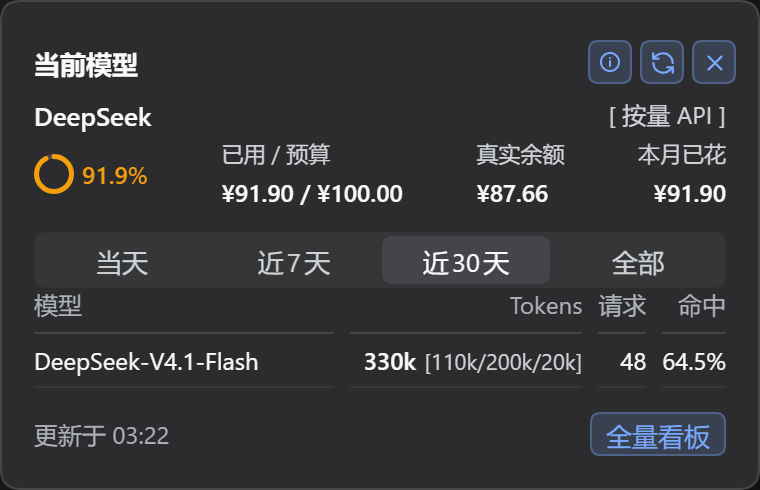
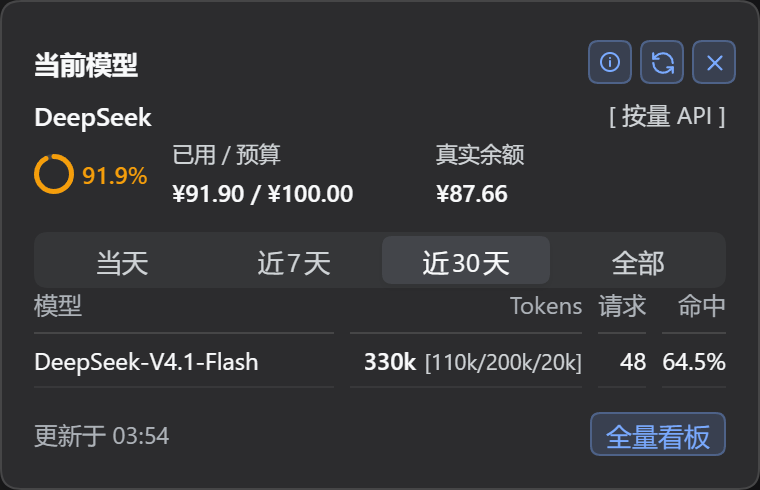
feat: P2 按量摘要移除本月已花（2.0.0）
- P2 摘要改四列网格，仅渲染环 / 已用·预算 / 真实余额，尾部空槽保留\n- 删除 token-dash-summary-month；VM 与 monthCost 不动，P3/预算不受影响\n- ui-design v3.5、design v3.5；page-p2 预览与 README 截图同步\n- e2e 改为三组摘要并断言余额不贴右；79 单测 / e2e 全绿\n- 版本 2.0.0；CHANGELOG 以 1.3.0 为基线；不 tag、不 npm publish

diff --git a/client.js b/client.js
@@ -393,7 +393,7 @@ window.__ModuleLoader__.load({
       card: { background: T.section, borderRadius: 10, padding: 10, marginTop: 10, display: 'grid', gap: 8 },
       link: { color: T.text, textDecoration: 'underline', cursor: 'pointer' },
       status: { minHeight: 15, fontSize: 10.5, color: T.muted, textAlign: 'right' },
-      summaryRow: { display: 'flex', flexWrap: 'nowrap', alignItems: 'center', justifyContent: 'space-between', gap: 12, minHeight: 24, fontSize: 12 },
+      summaryRow: { display: 'grid', gridTemplateColumns: 'auto minmax(120px,1.2fr) minmax(80px,1fr) minmax(0,1fr)', alignItems: 'center', columnGap: 12, minHeight: 24, fontSize: 12 },
       summaryCell: { display: 'flex', flexDirection: 'column', gap: 4, minWidth: 0, whiteSpace: 'nowrap' },
       summaryLabel: { color: T.muted, fontSize: 11 },
       summaryValue: { fontSize: 12, fontWeight: 600, fontVariantNumeric: 'tabular-nums' },
@@ -1215,7 +1215,7 @@ window.__ModuleLoader__.load({
       }, suffix === '' ? text : `${text} ${suffix}`)
     }
 
-    /** P2 API 主区：环+% / 已用·预算 / 真实余额 / 本月已花。 */
+    /** P2 API 主区：环+% / 已用·预算 / 真实余额；第四格留空。 */
     function P2Summary({ provider, summary }) {
       const budget = provider.budget
       const hasBudget = budget !== undefined && budget.state !== 'unset' && budget.amount > 0
@@ -1242,14 +1242,7 @@ window.__ModuleLoader__.load({
             title: tr('账户真实余额，不受预算影响'),
           },
             h('span', { style: styles.summaryLabel }, tr('真实余额')),
-            h('span', { style: styles.summaryValue }, balance ?? '—')),
-          h('span', {
-            'data-testid': 'token-dash-summary-month',
-            style: { ...styles.summaryCell, alignItems: 'flex-end', textAlign: 'right' },
-            title: tr('本月累计消耗，等于已用/预算 的分子'),
-          },
-            h('span', { style: styles.summaryLabel }, tr('本月已花')),
-            h('span', { style: styles.summaryValue }, fmtMoney(provider.usage?.monthCost, provider.currency)))))
+            h('span', { style: styles.summaryValue }, balance ?? '—'))))
     }
 
     /** P2 订阅窗口行：两段数字 + 倒计时 + 绝对时间（无「重置」后缀）。 */

diff --git a/tools/preview/templates/page-p2.html b/tools/preview/templates/page-p2.html
@@ -41,14 +41,13 @@
   .win .k { font-size: 11px; color: var(--muted); }
   .win .meta { font-size: 11px; color: var(--weak); white-space: nowrap; overflow: hidden; text-overflow: ellipsis; }
 
-  /* 摘要一行四列，两端与中间均匀分布 */
+  /* 摘要一行三组，第四格留空，避免余额被推到最右 */
   .summary {
-    display: flex; align-items: center; justify-content: space-between;
-    gap: var(--space-3);
+    display: grid; grid-template-columns: auto minmax(120px, 1.2fr) minmax(80px, 1fr) minmax(0, 1fr);
+    align-items: center; column-gap: var(--space-3);
   }
-  .summary .ring-cell { flex: 0 0 auto; }
+  .summary .ring-cell { justify-self: start; }
   .summary .cell { display: flex; flex-direction: column; gap: var(--space-1); min-width: 0; }
-  .summary .cell:last-child { align-items: flex-end; text-align: right; }
   .summary .k { font-size: 11px; color: var(--muted); }
   .summary .v { font-size: 12px; font-weight: 600; font-variant-numeric: tabular-nums; white-space: nowrap; }
 
@@ -80,7 +79,7 @@
 <body>
 <div class="page">
   <div class="stage">
-    <p class="stage-note">P2 · 按量浮层（固定 380，摘要单行四列，长模型名截断）</p>
+    <p class="stage-note">P2 · 按量浮层（固定 380，摘要单行三组 + 尾部空槽）</p>
     <div class="panel">
       <div class="ph">
         <span class="t">当前模型</span>
@@ -91,7 +90,6 @@
         <span id="used-inline" class="ring-cell"></span>
         <span class="cell"><span class="k">已用 / 预算</span><span class="v">¥91.90 / ¥100.00</span></span>
         <span class="cell"><span class="k">真实余额</span><span class="v">¥87.66</span></span>
-        <span class="cell"><span class="k">本月已花</span><span class="v">¥91.90</span></span>
       </div>
 
       <div class="range"><span>当天</span><span>近7天</span><span>近30天</span><span class="on">全部</span></div>

diff --git a/docs/plan/active/dsh/feature_board_cards_redesign.md b/docs/plan/active/dsh/feature_board_cards_redesign.md
@@ -1,9 +1,9 @@
 # Token 看板卡片化与三色环（前端重构）
 
-> 状态：已实施<br>
-> 完成时间：2026-11-05（`1.3.0-local.7`）<br>
+> 状态：待验收<br>
+> 完成时间：2026-11-05（2.0.0 候选；基线 `1.3.0`，未正式发布）<br>
 > 关联逻辑根：`dsh-token-dash`（`client.js`）<br>
-> 关联资料：[`ui-design.md`](../../../ui-design.md)（v3.2）、施工稿（已归档）[`board-redesign-build-checklist.md`](../../../checklist/archived/board-redesign-build-checklist.md)、设计决策（已归档）[`board-visual-review-checklist.md`](../../../checklist/archived/board-visual-review-checklist.md)、原型 [`tools/preview/templates/`](../../../../tools/preview/templates/)、历史方案 [`feature_fullpage_board.md`](feature_fullpage_board.md)
+> 关联资料：[`ui-design.md`](../../../ui-design.md)（v3.4）、施工稿（已归档）[`board-redesign-build-checklist.md`](../../../checklist/archived/board-redesign-build-checklist.md)、设计决策（已归档）[`board-visual-review-checklist.md`](../../../checklist/archived/board-visual-review-checklist.md)、原型 [`tools/preview/templates/`](../../../../tools/preview/templates/)、历史方案 [`feature_fullpage_board.md`](../archived/dsh/feature_fullpage_board.md)
 
 ## 一、最终需求与范围
 
@@ -135,8 +135,72 @@ flowchart LR
 
 ## 六、关联资料
 
-- 设计契约：[`ui-design.md`](../../../ui-design.md) v3.2
+- 设计契约：[`ui-design.md`](../../../ui-design.md) v3.4
 - 视觉决策：[`board-visual-review-checklist.md`](../../../checklist/archived/board-visual-review-checklist.md)
 - 施工记录：[`board-redesign-build-checklist.md`](../../../checklist/archived/board-redesign-build-checklist.md)
 - 原型：[`tools/preview/templates/`](../../../../tools/preview/templates/)
-- 历史方案：[`feature_fullpage_board.md`](feature_fullpage_board.md)
+- 历史方案：[`feature_fullpage_board.md`](../archived/dsh/feature_fullpage_board.md)
+
+## 九、自测反馈台
+
+### Issue #5 · P2 按量摘要移除「本月已花」（[已修复]）
+
+> 只改 P2 按量形态；订阅 P2、P3、预算与 VM 数据口径不动。
+
+**现象**
+
+- P2 按量摘要当前四组：环 + 已用/预算 + 真实余额 + 本月已花。
+- 用户要求删除最后的「本月已花」，前面的槽位不变动。
+
+**规则**
+
+- P2 摘要保留前三组：`环+百分比 / 已用·预算 / 真实余额`；第四组不再渲染。
+- 前三个槽位保持原顺序与列位置，尾部留空；不能把「真实余额」推到面板最右。
+- 实现用 4 列网格 `auto 1fr 1fr 1fr`：前三列放三组，第四列空；列距 12、标签 11 / 值 12。
+- 订阅 P2 不渲染摘要，不受影响；P3 卡片的「本月已花」保留。
+- 删除 `token-dash-summary-month` 测试 id 与对应文案；`本月已花` 词条仍供 P3 使用，不能删。
+
+**VM / 数据**
+
+- **VM 不改**：P2 读 `provider.usage.monthCost`，但该字段同时供预算 `budget.used` 与 P3 卡片；删字段会破坏预算与 P3。
+- `SummaryVM` 结构、`/summary`、`/usage` 均不变；本轮只删 P2 的一个渲染节点。
+
+**设计文档**
+
+| 章节 | 改动 |
+|---|---|
+| `ui-design.md` §4.1 | 结构图从四组改为三组，尾部留空 |
+| `ui-design.md` §4.3 | 标题改「主区三列（尾部空槽）」；删除本月已花与右对齐规则 |
+| `ui-design.md` §8 | 不改，仍为固定 380 |
+
+**Preview**
+
+- `tools/preview/templates/page-p2.html`：删除 `.summary` 第四组；`.summary` 改四列网格；`npm run preview page-p2` 重渲染并目检。
+
+**代码**
+
+| 落点 | 改动 |
+|---|---|
+| `client.js` · `P2Summary` | 删除 `token-dash-summary-month` 整个 span |
+| `client.js` · `styles.summaryRow` | `flex space-between` → `grid-template-columns: auto 1fr 1fr 1fr`，列距 12 |
+| `client.js` · 文案 | `本月已花` 词条保留（P3 仍在用） |
+| `e2e` | 删除 month 断言；断言摘要仅 3 组、无「本月已花」、真实余额未贴右 |
+
+**测试**
+
+- e2e：`summaryRow` 不含「本月已花」；`token-dash-summary-month` 数量 0；前三个 `summaryCell` 存在；真实余额右边缘 < 面板右边缘 − 80；删除原来的 `monthBox` 右缘断言。
+- `npm test`：VM / budget 断言不变，79 通过。
+- `npm run e2e`：全绿。
+- 截图：P2 按量面板与 `page-p2.html` 三组一致；P3 截图不受影响。
+
+**验证结果（2026-11-05）**
+
+- `npm test`：79 通过 / 0 失败；`npm run e2e`：UI assertions passed；
+- P2 预览 `page-p2` 三组 + 尾部空槽；实际面板截图已重出；
+- `docs/ui-design.md` v3.5、软件设计 v3.5；版本 2.0.0，未 tag / 未发布。
+
+**版本与发布（用户 2026-11-05 追加约束）**
+
+- 目标版本 **2.0.0**；CHANGELOG 以 1.3.0 正式块为基线，保持同样条目，追加本次 P2 摘要调整；不使用 1.3.1。
+- **不正式发布**：不改 tag、不触发 `release` / `publish`、不 npm publish；只做提交、推送与 `npm run pack` 生成的 2.0.0 候选包。
+- 完成后 `npm test` + `npm run e2e` + `npm run pack`，版本记录停在 2.0.0 待发布。

diff --git a/docs/ui-design.md b/docs/ui-design.md
@@ -1,7 +1,7 @@
 # Token 看板 UI 设计
 
 > 唯一 UI 设计真源：视觉、信息层级、文案与交互以本文件为准。<br>
-> **当前版本：v3.4（2026-11-05 1.3.0 定稿）**——四组件分层（ProgressRing / PercentValue / InlineRing / QuotaGauge）；P3 卡片网格、摘要带、明细底框、自持滚动与两段设置胶囊；P2 固定 380、单行摘要、三槽位订阅与右对齐表格；间距统一 4px 六档。<br>
+> **当前版本：v3.5（2026-11-05 2.0.0 定稿）**——四组件分层（ProgressRing / PercentValue / InlineRing / QuotaGauge）；P3 卡片网格、摘要带、明细底框、自持滚动与两段设置胶囊；P2 固定 380、单行三组摘要、三槽位订阅与右对齐表格；间距统一 4px 六档。<br>
 > 底框层级：`Panel → Section`；P3 用「卡片网格 + 摘要底框」，分区不靠色相，状态色只给环、百分比与超支。<br>
 > 架构与数据流见 [design.md](design.md)；本轮迭代的需求与实施细节见 [UI 迭代计划](plan/archived/feature_ui_refresh.md)。
 
@@ -11,7 +11,8 @@
 
 | 日期 | 版本 | 变更 | 状态 |
 |---|---|---|---|
-| 2026-11-05 | **v3.4** | **1.3.0 定稿**：P2 固定 380 / 单行摘要 / 三槽位 / 表格列距 8；P3 页头两按钮 44×26、胶囊无立即刷新、自持滚动、明细 240 + 7×1fr / 13px；间距 4px 六档 | 已实现（1.3.0） |
+| 2026-11-05 | **v3.5** | **2.0.0 定稿**：P2 按量摘要移除「本月已花」，保留三组 + 尾部空槽；其余沿用 v3.4 | 已实现（2.0.0） |
+| 2026-11-05 | v3.4 | **1.3.0 定稿**：P2 固定 380 / 单行摘要 / 三槽位 / 表格列距 8；P3 页头两按钮 44×26、胶囊无立即刷新、自持滚动、明细 240 + 7×1fr / 13px；间距 4px 六档 | 已实现（1.3.0） |
 | 2026-11-05 | v3.3 | **按代码校准**：P2 固定 380 / 单行摘要 / 三槽位 / 表格列距 8；P3 页头两按钮 44×26、胶囊无立即刷新、自持滚动、明细 240 + 1fr / 13px；间距 4px 六档 | 已实现（1.3.0-local.7） |
 | 2026-11-04 | v3.2 | **卡片化与三色环**：四组件分层；P3 每 provider 一卡（按量竖排 / 订阅窗口一排）、摘要带、明细底框、三行胶囊；P2 两形态；环改绿 / 黄 / 红；响应式 4/3/2 列 | 已实现（1.3.0-local.1） |
 | 2026-11-04 | v3.1 | **组件与字号定稿**：新增 §2.5（ProgressRing 14/20、ResetClock 拆 relative+absolute、TokenTable 全自适应 + `[` 交界基线）与 §2.6（`--td-fs-*` / `--td-lh-*` 六个 token） | 已实现（1.2.0-local.2） |
@@ -208,8 +209,8 @@ API    [API] 预算 ◔ 25.4% · 今日 ¥11.37 · 余额 ¥8.74 ⌃
 当前模型                                    ⓘ   ⟳   ×
 ────────────────────────────────────────────────────────
 DeepSeek                                   [ 按量 API ]
-◔ 25%      已用 / 预算       真实余额        本月已花
-           ¥12.68 / ¥50.00  ¥8.74          ¥12.68
+◔ 25%      已用 / 预算       真实余额
+           ¥12.68 / ¥50.00  ¥8.74
 ────────────────────────────────────────────────────────
 [   当天   |   近7天   |   近30天   |   全部   ]（满宽）
 模型                 Tokens                请求   命中
@@ -226,11 +227,12 @@ DeepSeek-V4.1-F…    12.5k [12.3k/0/195]     1      0%
 - 高 `max-height: 70vh`；贴 pill 上方 8px；宽度变化 120ms 过渡 + `ResizeObserver` 重定位。
 - 取消「用量 / 设置」双 tab；取消预算进度条；取消刷新间隔 / 余额开关。
 
-### 4.3 主区四列
+### 4.3 主区三列（尾部空槽）
 
-- 单行四组：`display: flex; justify-content: space-between; flex-wrap: nowrap`：环+百分比 / 已用·预算 / 真实余额 / 本月已花。
-- 前三组左对齐，**最后一组右对齐**；标签 11px `label-secondary`，值 12px / 600。
-- `title`：余额=「账户真实余额，不受预算影响」；已花=「本月累计消耗，等于已用/预算 的分子」。
+- 单行三组：`display: grid; grid-template-columns: auto 1fr 1fr 1fr; column-gap: 12px`：环+百分比 / 已用·预算 / 真实余额；第四列留空，不再渲染「本月已花」。
+- 三组左对齐，尾部空槽不放入任何内容，避免把真实余额推到面板最右。
+- 标签 11px `label-secondary`，值 12px / 600。
+- `title`：余额=「账户真实余额，不受预算影响」。
 - 长金额优先让模型名截断，不换行、不缩字号。
 
 ### 4.4 订阅行

diff --git a/CHANGELOG.md b/CHANGELOG.md
@@ -2,6 +2,26 @@
 
 本文件记录每个版本的**新增**与**修改**。格式参考 [Keep a Changelog](https://keepachangelog.com/zh-CN/1.1.0/)。
 
+## [2.0.0] - 2026-11-05
+
+### 新增
+
+- 全量看板升级为 7 家供应商卡片：DeepSeek、GLM、Kimi、OpenRouter、Qwen、OpenCode Go、Command Code；按量与订阅分开展示，订阅窗口支持 5h / 周 / 月。
+- 接入 OpenCode Go 与 Command Code：订阅配额、余额 / credits 与窗口倒计时；Command Code 支持 `orgId` 预检。
+- 新增「Token 看板」整页：侧栏入口或浮层「全量看板」进入，包含供应商卡片、摘要带、8 列模型明细与设置胶囊。
+- 看板页头新增「★ / ⟳」入口；明细模型列追加供应商后缀，模型名过长时省略。
+- 日志体系升级：JSONL 每行带 `[TD:<module>]` 前缀，新增供应商失败、路由拒绝与缓存状态事件，日志头动态记录 DSH 版本。
+
+### 修改
+
+- P2 固定 380：摘要改单行三组（环 / 已用·预算 / 真实余额，尾部留空），范围条撑满，订阅窗口固定三槽位（两窗占前两槽），模型列上限 150。
+- P3 定稿：页头只留两枚 44×26 蓝色按钮；设置胶囊移除「立即刷新」，刷新间隔左对齐、账户余额右对齐；页面自持滚动，滚动条贴窗口右缘。
+- P3 明细模型列上限 240，7 个数值列等宽，字号 13；除模型列外全部右对齐，长模型名不再挤压数字。
+- P2 / P3 间距统一到 4 / 8 / 12 / 16 / 24 / 32：卡片与底框 padding 16、区块间距 24、卡片间距 12、胶囊底部留白 32。
+- P1 的预算与订阅窗口改用内联环；浮层不再承载设置项，设置集中到整页底部胶囊。
+- 供应商取数改为按源表迭代：每源成功缓存 60s / 失败 10s + 并发合并；订阅重查覆盖 GLM、Kimi、OpenCode Go、Command Code。
+- 7 家 provider registry 与价格链接同步；非回环请求走安全门；错误分类补 `upstream` 标记。
+
 ## [1.3.0] - 2026-11-05
 
 ### 新增

diff --git a/README.en.md b/README.en.md
@@ -61,7 +61,7 @@ Screenshots use mock data so the full layout is visible at once.
   <img src="https://raw.githubusercontent.com/spartawhy117/dsh-token-dash/main/docs/pic/pill-sub.png" alt="Subscription pill" />
 </p>
 
-**P2 · Floating panel (current model)**: fixed 380, one row with four groups — used ring / used-budget / real balance / month-to-date spend — a full-width range control and the usage table.
+**P2 · Floating panel (current model)**: fixed 380, one row with three groups — used ring / used-budget / real balance — a trailing empty slot, a full-width range control and the usage table.
 
 <p align="center">
   <img src="https://raw.githubusercontent.com/spartawhy117/dsh-token-dash/main/docs/pic/panel-api.png" alt="Floating panel - pay-as-you-go" />

diff --git a/README.md b/README.md
@@ -61,7 +61,7 @@
   <img src="https://raw.githubusercontent.com/spartawhy117/dsh-token-dash/main/docs/pic/pill-sub.png" alt="订阅 Pill" />
 </p>
 
-**P2 · 浮层（当前模型）**：固定 380，单行四组「已用环 / 已用·预算 / 真实余额 / 本月已花」；时间范围撑满，下面是用量表。
+**P2 · 浮层（当前模型）**：固定 380，单行三组「已用环 / 已用·预算 / 真实余额」，尾部留空；时间范围撑满，下面是用量表。
 
 <p align="center">
   <img src="https://raw.githubusercontent.com/spartawhy117/dsh-token-dash/main/docs/pic/panel-api.png" alt="浮层 · 按量形态" />

diff --git a/docs/design.md b/docs/design.md
@@ -1,6 +1,6 @@
 # dsh-token-dash 设计文档
 
-> 更新时间：2026-11-05（v3.4，1.3.0 定稿；已在 DSH 0.2.2-rc.1 验证）<br>
+> 更新时间：2026-11-05（v3.5，2.0.0 定稿；已在 DSH 0.2.2-rc.1 验证）<br>
 > 面向贡献者的一页式架构说明。需求背景见 [token-dash 计划（已归档）](plan/archived/feature_token_dash.md)，已归档的 UI 迭代见 [UI 迭代计划](plan/archived/feature_ui_refresh.md)；Provider/VM/UI 边界收口见 [边界计划](plan/archived/feature_provider_boundary.md)；UI 视觉以 [UI 设计](ui-design.md) 为唯一真源。
 
 ## 总体架构
